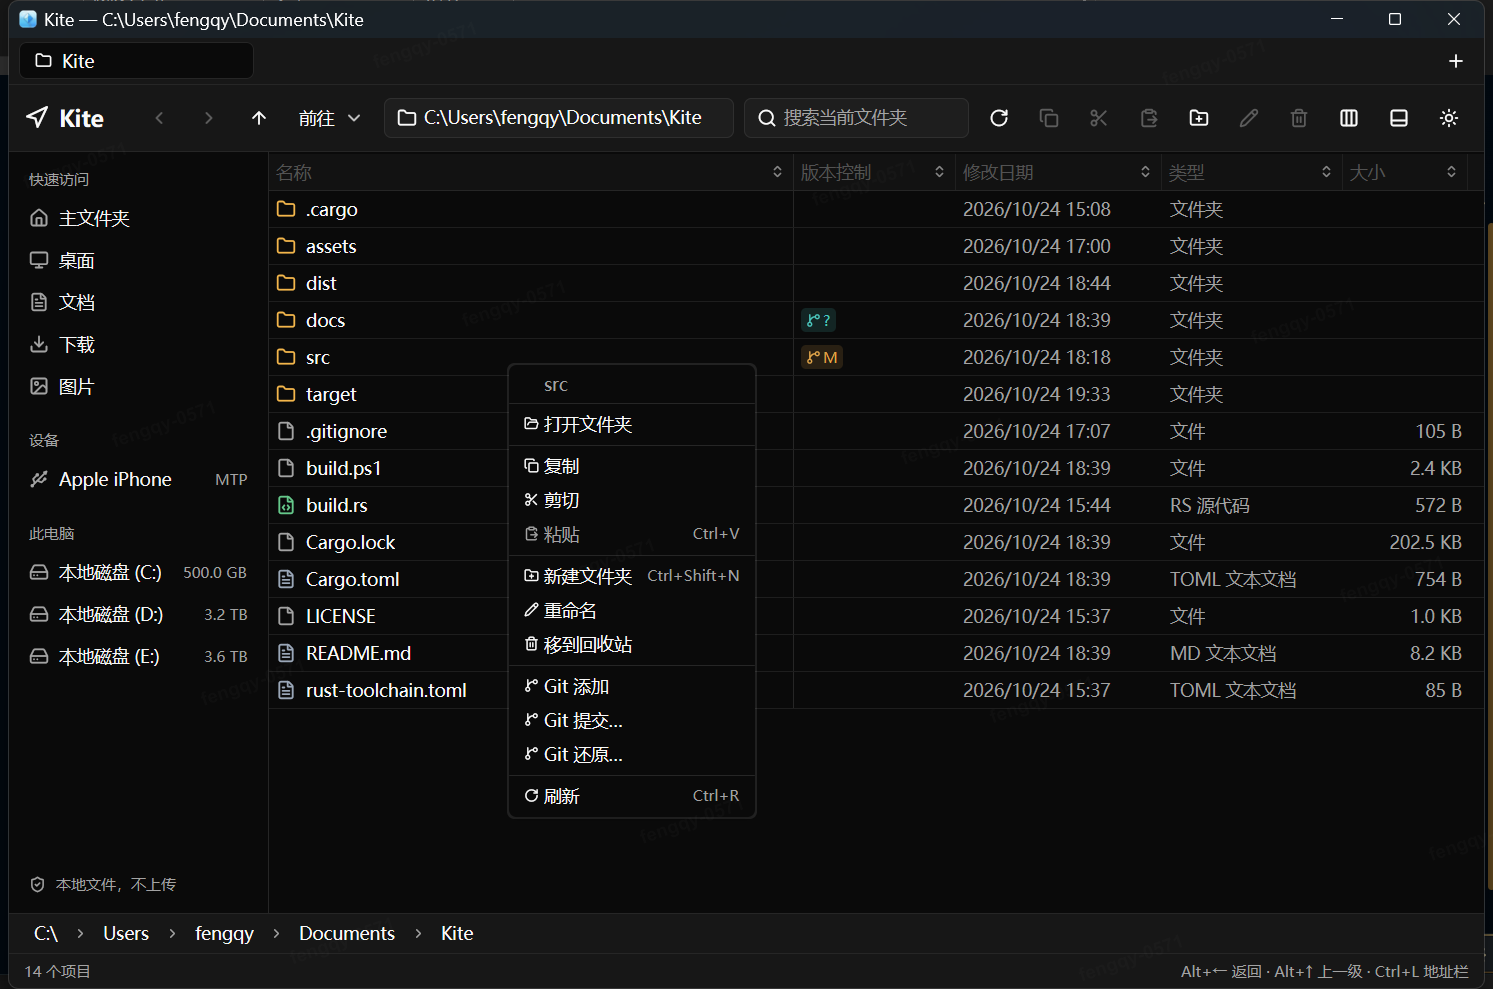
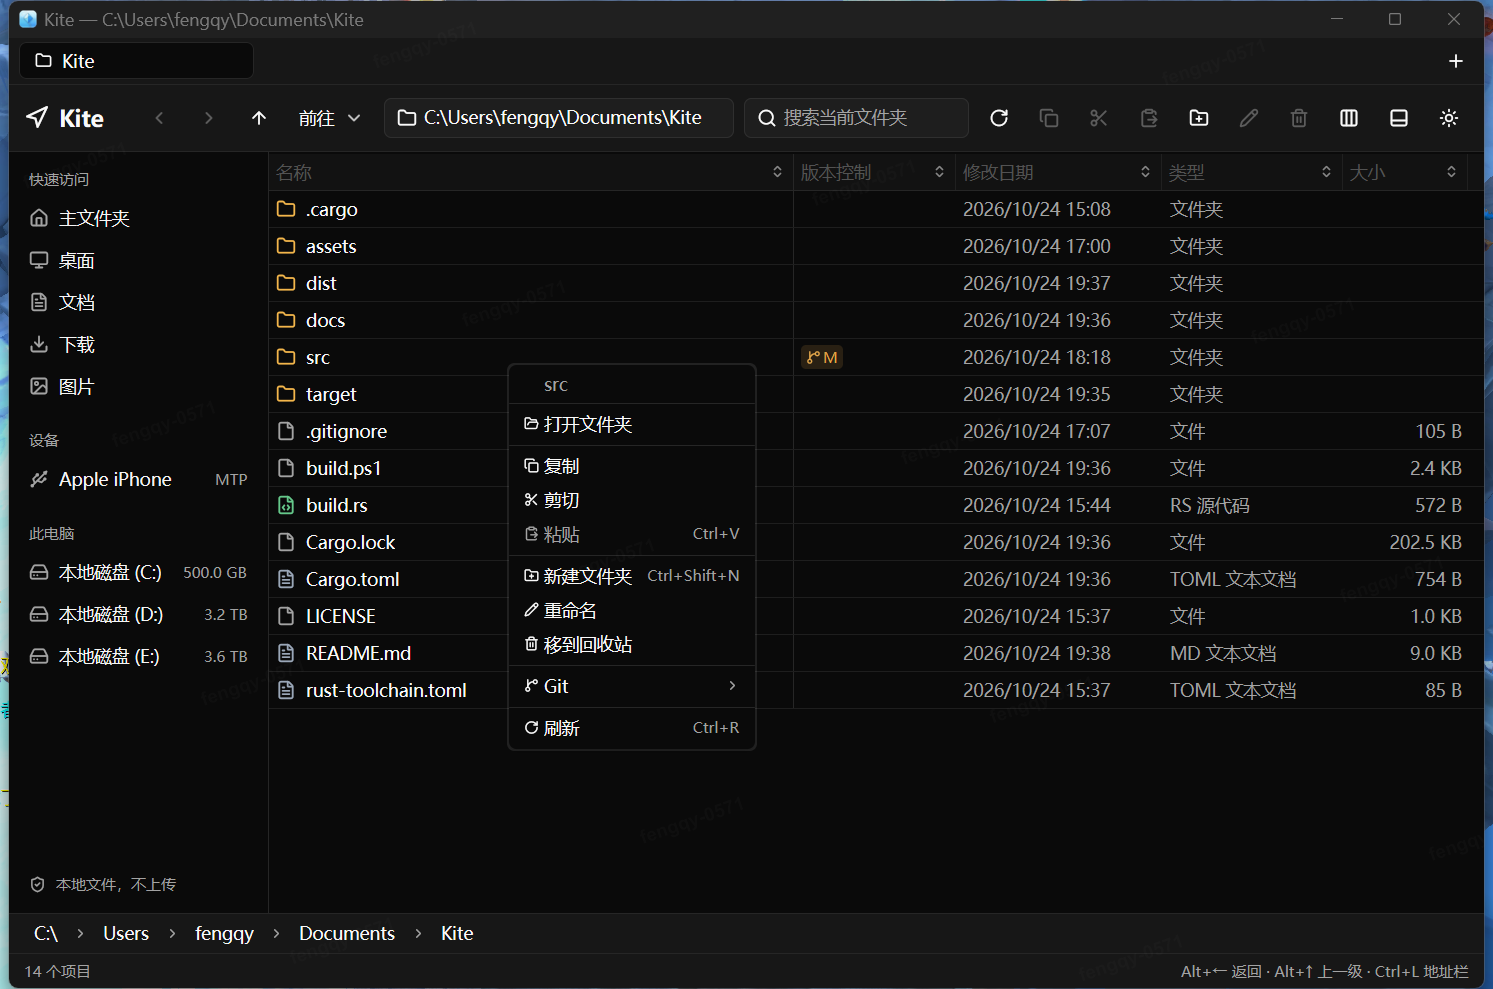
feat: group Git and SVN actions in submenus

diff --git a/src/app.rs b/src/app.rs
@@ -1941,9 +1941,11 @@ impl KiteApp {
                         this.select_column_entry(column, row_ix, cx)
                     }),
                 )
-                .context_menu(move |menu, _, _| {
+                .context_menu(move |menu, window, cx| {
                     build_column_context_menu(
                         menu,
+                        window,
+                        cx,
                         &menu_entry,
                         can_paste,
                         row_git_available,
@@ -2199,6 +2201,8 @@ fn resolve_location_input(value: &str, current_dir: &Path) -> Result<PathBuf, St
 
 fn build_column_context_menu(
     menu: PopupMenu,
+    window: &mut Window,
+    cx: &mut Context<PopupMenu>,
     entry: &FileEntry,
     can_paste: bool,
     git_available: bool,
@@ -2243,69 +2247,74 @@ fn build_column_context_menu(
         );
 
     if git_available {
-        menu = menu
-            .separator()
-            .menu_with_icon_and_disabled(
-                "Git 添加",
-                IconName::GitBranch,
-                Box::new(VcsMenuAction {
-                    command: VcsMenuCommand::GitAdd,
-                }),
-                false,
-            )
-            .menu_with_icon_and_disabled(
-                "Git 提交…",
-                IconName::GitBranch,
-                Box::new(VcsMenuAction {
-                    command: VcsMenuCommand::GitCommit,
-                }),
-                false,
-            )
-            .menu_with_icon_and_disabled(
-                "Git 还原…",
-                IconName::GitBranch,
-                Box::new(VcsMenuAction {
-                    command: VcsMenuCommand::GitRevert,
-                }),
-                false,
-            );
+        menu = menu.separator().submenu_with_icon(
+            Some(IconName::GitBranch.into()),
+            "Git",
+            window,
+            cx,
+            |menu, _, _| {
+                menu.menu_with_icon(
+                    "添加",
+                    IconName::GitBranch,
+                    Box::new(VcsMenuAction {
+                        command: VcsMenuCommand::GitAdd,
+                    }),
+                )
+                .menu_with_icon(
+                    "提交…",
+                    IconName::GitBranch,
+                    Box::new(VcsMenuAction {
+                        command: VcsMenuCommand::GitCommit,
+                    }),
+                )
+                .menu_with_icon(
+                    "还原…",
+                    IconName::GitBranch,
+                    Box::new(VcsMenuAction {
+                        command: VcsMenuCommand::GitRevert,
+                    }),
+                )
+            },
+        );
     }
 
     if svn_available {
-        menu = menu
-            .separator()
-            .menu_with_icon_and_disabled(
-                "SVN 更新",
-                IconName::Boxes,
-                Box::new(VcsMenuAction {
-                    command: VcsMenuCommand::SvnUpdate,
-                }),
-                false,
-            )
-            .menu_with_icon_and_disabled(
-                "SVN 添加",
-                IconName::Boxes,
-                Box::new(VcsMenuAction {
-                    command: VcsMenuCommand::SvnAdd,
-                }),
-                false,
-            )
-            .menu_with_icon_and_disabled(
-                "SVN 提交…",
-                IconName::Boxes,
-                Box::new(VcsMenuAction {
-                    command: VcsMenuCommand::SvnCommit,
-                }),
-                false,
-            )
-            .menu_with_icon_and_disabled(
-                "SVN 还原…",
-                IconName::Boxes,
-                Box::new(VcsMenuAction {
-                    command: VcsMenuCommand::SvnRevert,
-                }),
-                false,
-            );
+        menu = menu.separator().submenu_with_icon(
+            Some(IconName::Boxes.into()),
+            "SVN",
+            window,
+            cx,
+            |menu, _, _| {
+                menu.menu_with_icon(
+                    "更新",
+                    IconName::Boxes,
+                    Box::new(VcsMenuAction {
+                        command: VcsMenuCommand::SvnUpdate,
+                    }),
+                )
+                .menu_with_icon(
+                    "添加",
+                    IconName::Boxes,
+                    Box::new(VcsMenuAction {
+                        command: VcsMenuCommand::SvnAdd,
+                    }),
+                )
+                .menu_with_icon(
+                    "提交…",
+                    IconName::Boxes,
+                    Box::new(VcsMenuAction {
+                        command: VcsMenuCommand::SvnCommit,
+                    }),
+                )
+                .menu_with_icon(
+                    "还原…",
+                    IconName::Boxes,
+                    Box::new(VcsMenuAction {
+                        command: VcsMenuCommand::SvnRevert,
+                    }),
+                )
+            },
+        );
     }
 
     menu.separator().menu_with_icon_and_disabled(

diff --git a/src/table.rs b/src/table.rs
@@ -1,4 +1,4 @@
-use gpui_kit::component::menu::PopupMenu;
+use gpui_kit::component::menu::{PopupMenu, PopupMenuItem};
 use gpui_kit::component::table::{Column, ColumnSort, TableDelegate, TableState};
 use gpui_kit::component::{ActiveTheme as _, Icon, StyledExt as _, h_flex, v_flex};
 use gpui_kit::*;
@@ -143,8 +143,8 @@ impl TableDelegate for FileTableDelegate {
         &mut self,
         row_ix: usize,
         menu: PopupMenu,
-        _: &mut Window,
-        _: &mut Context<TableState<Self>>,
+        window: &mut Window,
+        cx: &mut Context<TableState<Self>>,
     ) -> PopupMenu {
         let Some(entry) = self.entries.get(row_ix) else {
             return menu;
@@ -222,10 +222,9 @@ impl TableDelegate for FileTableDelegate {
             );
 
         if self.git_available {
-            menu = menu
-                .separator()
-                .menu_with_icon_and_disabled(
-                    "Git 添加",
+            let submenu = PopupMenu::build(window, cx, move |menu, _, _| {
+                menu.menu_with_icon_and_disabled(
+                    "添加",
                     IconName::GitBranch,
                     Box::new(RowContextAction {
                         row: row_ix,
@@ -234,7 +233,7 @@ impl TableDelegate for FileTableDelegate {
                     disabled,
                 )
                 .menu_with_icon_and_disabled(
-                    "Git 提交…",
+                    "提交…",
                     IconName::GitBranch,
                     Box::new(RowContextAction {
                         row: row_ix,
@@ -243,21 +242,26 @@ impl TableDelegate for FileTableDelegate {
                     disabled,
                 )
                 .menu_with_icon_and_disabled(
-                    "Git 还原…",
+                    "还原…",
                     IconName::GitBranch,
                     Box::new(RowContextAction {
                         row: row_ix,
                         command: RowContextCommand::Vcs(VcsMenuCommand::GitRevert),
                     }),
                     disabled,
-                );
+                )
+            });
+            menu = menu.separator().item(
+                PopupMenuItem::submenu("Git", submenu)
+                    .icon(IconName::GitBranch)
+                    .disabled(disabled),
+            );
         }
 
         if self.svn_available {
-            menu = menu
-                .separator()
-                .menu_with_icon_and_disabled(
-                    "SVN 更新",
+            let submenu = PopupMenu::build(window, cx, move |menu, _, _| {
+                menu.menu_with_icon_and_disabled(
+                    "更新",
                     IconName::Boxes,
                     Box::new(RowContextAction {
                         row: row_ix,
@@ -266,7 +270,7 @@ impl TableDelegate for FileTableDelegate {
                     disabled,
                 )
                 .menu_with_icon_and_disabled(
-                    "SVN 添加",
+                    "添加",
                     IconName::Boxes,
                     Box::new(RowContextAction {
                         row: row_ix,
@@ -275,7 +279,7 @@ impl TableDelegate for FileTableDelegate {
                     disabled,
                 )
                 .menu_with_icon_and_disabled(
-                    "SVN 提交…",
+                    "提交…",
                     IconName::Boxes,
                     Box::new(RowContextAction {
                         row: row_ix,
@@ -284,14 +288,20 @@ impl TableDelegate for FileTableDelegate {
                     disabled,
                 )
                 .menu_with_icon_and_disabled(
-                    "SVN 还原…",
+                    "还原…",
                     IconName::Boxes,
                     Box::new(RowContextAction {
                         row: row_ix,
                         command: RowContextCommand::Vcs(VcsMenuCommand::SvnRevert),
                     }),
                     disabled,
-                );
+                )
+            });
+            menu = menu.separator().item(
+                PopupMenuItem::submenu("SVN", submenu)
+                    .icon(IconName::Boxes)
+                    .disabled(disabled),
+            );
         }
 
         menu.separator().menu_with_icon_and_disabled(

diff --git a/docs/RELEASE_NOTES_v0.3.1.md b/docs/RELEASE_NOTES_v0.3.1.md
@@ -1,0 +1,35 @@
+# Kite v0.3.1
+
+Kite is a native Windows file manager built with Rust and GPUI.
+
+## Changes
+
+- Move Git operations into a Git submenu.
+- Move SVN operations into an SVN submenu.
+- Keep the top-level context menu compact.
+- Show a submenu caret for both VCS entries.
+- Preserve repository-aware Git and SVN menu visibility.
+
+## Requirements
+
+- Windows 10 or Windows 11 x64.
+- Git is optional. Install Git for Git operations.
+- SVN is optional. Install SVN for SVN operations.
+
+## Install
+
+1. Download `Kite-v0.3.1-windows-x64.zip`.
+2. Extract the ZIP file.
+3. Run `Kite.exe`.
+
+Kite is not code-signed. Windows SmartScreen may show a warning.
+
+## Screenshots
+
+![Git submenu entry](https://raw.githubusercontent.com/wyz541/kite/main/docs/screenshots/vcs-context-menu.png)
+
+## Verification
+
+- `cargo test`: 23 tests passed.
+- `cargo clippy --all-targets -- -D warnings`: passed.
+- Top-level Git entry and submenu caret were checked in list view.

diff --git a/README.md b/README.md
@@ -109,6 +109,9 @@ Git 提交使用所选路径的已暂存更改。
 SVN 操作支持更新、添加、提交和还原。
 SVN 提交提交所选路径的本地更改。
 
+Git 和 SVN 操作位于右键菜单的二级菜单。
+一级菜单只显示 Git 或 SVN 入口。指向入口后展开操作项。
+
 提交操作要求输入提交说明。还原操作要求确认。
 命令在后台任务中执行。旧文件状态不会阻塞界面。
 
@@ -271,7 +274,7 @@ cargo run -- "C:\Work\Project"
 .\build.ps1
 ```
 
-`build.ps1` 生成 `dist\Kite.exe` 和 `dist\Kite-v0.3.0-windows-x64.zip`。
+`build.ps1` 生成 `dist\Kite.exe` 和 `dist\Kite-v0.3.1-windows-x64.zip`。
 
 ### 测试
 
